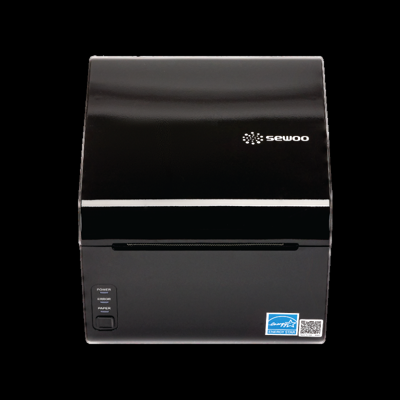
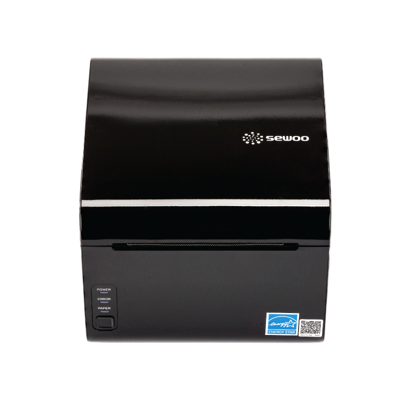
ALL-IN-ONE 보완: 소프트웨어 칩 2x2 그리드 / PG간편결제 실제 브랜드 로고심볼 8종(원형 아이콘) / TS100 투명배경 흰색 재합성(검정윤곽 수정) / 서브문구에 제품 클릭 시 상세 스펙 이동 표기

diff --git a/index.html b/index.html
@@ -162,10 +162,10 @@
   .liemoji{font-size:46px;line-height:1;filter:drop-shadow(0 6px 10px rgba(10,26,58,.18));}
   .liimg{width:92px;height:92px;object-fit:contain;display:block;mix-blend-mode:multiply;}
   .pcard .solimg{width:80px;height:80px;object-fit:contain;display:block;margin:0 auto;mix-blend-mode:multiply;}
-  .sol-chips{display:flex;flex-wrap:wrap;gap:5px;justify-content:center;align-items:center;align-content:center;min-height:80px;}
-  .sol-chips span{background:var(--soft);border:1px solid var(--line);border-radius:999px;padding:4px 11px;font-size:11.5px;font-weight:800;color:var(--navy);}
-  .sol-pays{display:flex;flex-wrap:wrap;gap:4px;justify-content:center;align-items:center;align-content:center;min-height:80px;}
-  .sol-pays span{color:#fff;border-radius:999px;padding:4px 9px;font-size:10.5px;font-weight:800;white-space:nowrap;}
+  .sol-chips{display:grid;grid-template-columns:repeat(2,auto);gap:6px;justify-content:center;align-items:center;align-content:center;min-height:80px;}
+  .sol-chips span{background:var(--soft);border:1px solid var(--line);border-radius:999px;padding:4px 11px;font-size:11.5px;font-weight:800;color:var(--navy);text-align:center;}
+  .sol-pays{display:flex;flex-wrap:wrap;gap:7px;justify-content:center;align-items:center;align-content:center;min-height:80px;max-width:160px;margin:0 auto;}
+  .sol-pays img{width:31px;height:31px;border-radius:50%;border:1px solid var(--line);background:#fff;object-fit:contain;padding:3px;box-shadow:0 2px 6px rgba(10,26,58,.08);}
   .liname{font-size:14.5px;font-weight:800;color:var(--navy);letter-spacing:-.3px;}
   .lipill{font-size:11.5px;font-weight:800;color:#fff;background:var(--blue);padding:3px 10px;border-radius:999px;}
   .lipill.gold{background:linear-gradient(135deg,var(--gold),var(--gold2));color:var(--navy);}
@@ -511,7 +511,7 @@
   <div class="wrap">
     <div class="ey">ALL-IN-ONE</div>
     <h2>매장에 필요한 모든 것, <span class="y">따로 알아볼 필요 없이</span></h2>
-    <p class="sub">포스부터 결제까지 — 누리네트웍스 하나로 묶어 한 번에 설치·관리합니다</p>
+    <p class="sub">포스부터 결제까지 — 누리네트웍스 하나로 묶어 한 번에 설치·관리합니다 <span style="color:var(--blue);font-weight:800;white-space:nowrap;">· 제품 클릭 시 상세 스펙으로 이동</span></p>
     <div class="grid">
       <a class="pcard" href="lineup-pos.html"><img class="solimg" src="li-pos.png" alt="POS N250"><h3>POS (N250)</h3><p>15인치 올인원 포스</p></a>
       <a class="pcard" href="lineup-kiosk.html"><img class="solimg" src="li-kiosk.png" alt="배리어프리 키오스크"><h3>키오스크</h3><p>무인 주문·결제</p></a>
@@ -519,7 +519,7 @@
       <a class="pcard" href="lineup-terminal.html"><img class="solimg" src="li-wired.png" alt="카드단말기"><h3>카드단말기</h3><p>모든 결제수단</p></a>
       <a class="pcard" href="lineup-signpad.html"><img class="solimg" src="li-naver.png" alt="네이버단말기 사인패드"><h3>사인패드</h3><p>전자서명</p></a>
       <a class="pcard" href="lineup-software.html"><div class="sol-chips"><span>업포스</span><span>오케이포스</span><span>유통</span><span>병원 등</span></div><h3>매장 소프트웨어</h3><p>매출·재고 관리</p></a>
-      <a class="pcard" href="lineup-pg.html"><div class="sol-pays"><span style="background:#111">애플페이</span><span style="background:#1428A0">삼성페이</span><span style="background:#03C75A">네이버페이</span><span style="background:#FEE500;color:#3A1D1D">카카오페이</span><span style="background:#0064FF">토스페이</span><span style="background:#00A4E3">제로페이</span><span style="background:linear-gradient(135deg,#1677FF,#07C160)">알리·위챗페이</span></div><h3>PG·간편결제</h3><p>온·오프 통합</p></a>
+      <a class="pcard" href="lineup-pg.html"><div class="sol-pays"><img src="pay-apple.png" alt="애플페이" title="애플페이"><img src="pay-samsung.png" alt="삼성페이" title="삼성페이"><img src="pay-naver.png" alt="네이버페이" title="네이버페이"><img src="pay-kakao.png" alt="카카오페이" title="카카오페이"><img src="pay-toss.png" alt="토스페이" title="토스페이"><img src="pay-zero.png" alt="제로페이" title="제로페이"><img src="pay-alipay.png" alt="알리페이" title="알리페이"><img src="pay-wechat.png" alt="위챗페이" title="위챗페이"></div><h3>PG·간편결제</h3><p>온·오프 통합</p></a>
       <a class="pcard" href="lineup-extra.html"><img class="solimg" src="li-printer.png" alt="TS100 프린터"><h3>주변기기</h3><p>TS100 프린터·스캐너 등</p></a>
     </div>
   </div>
